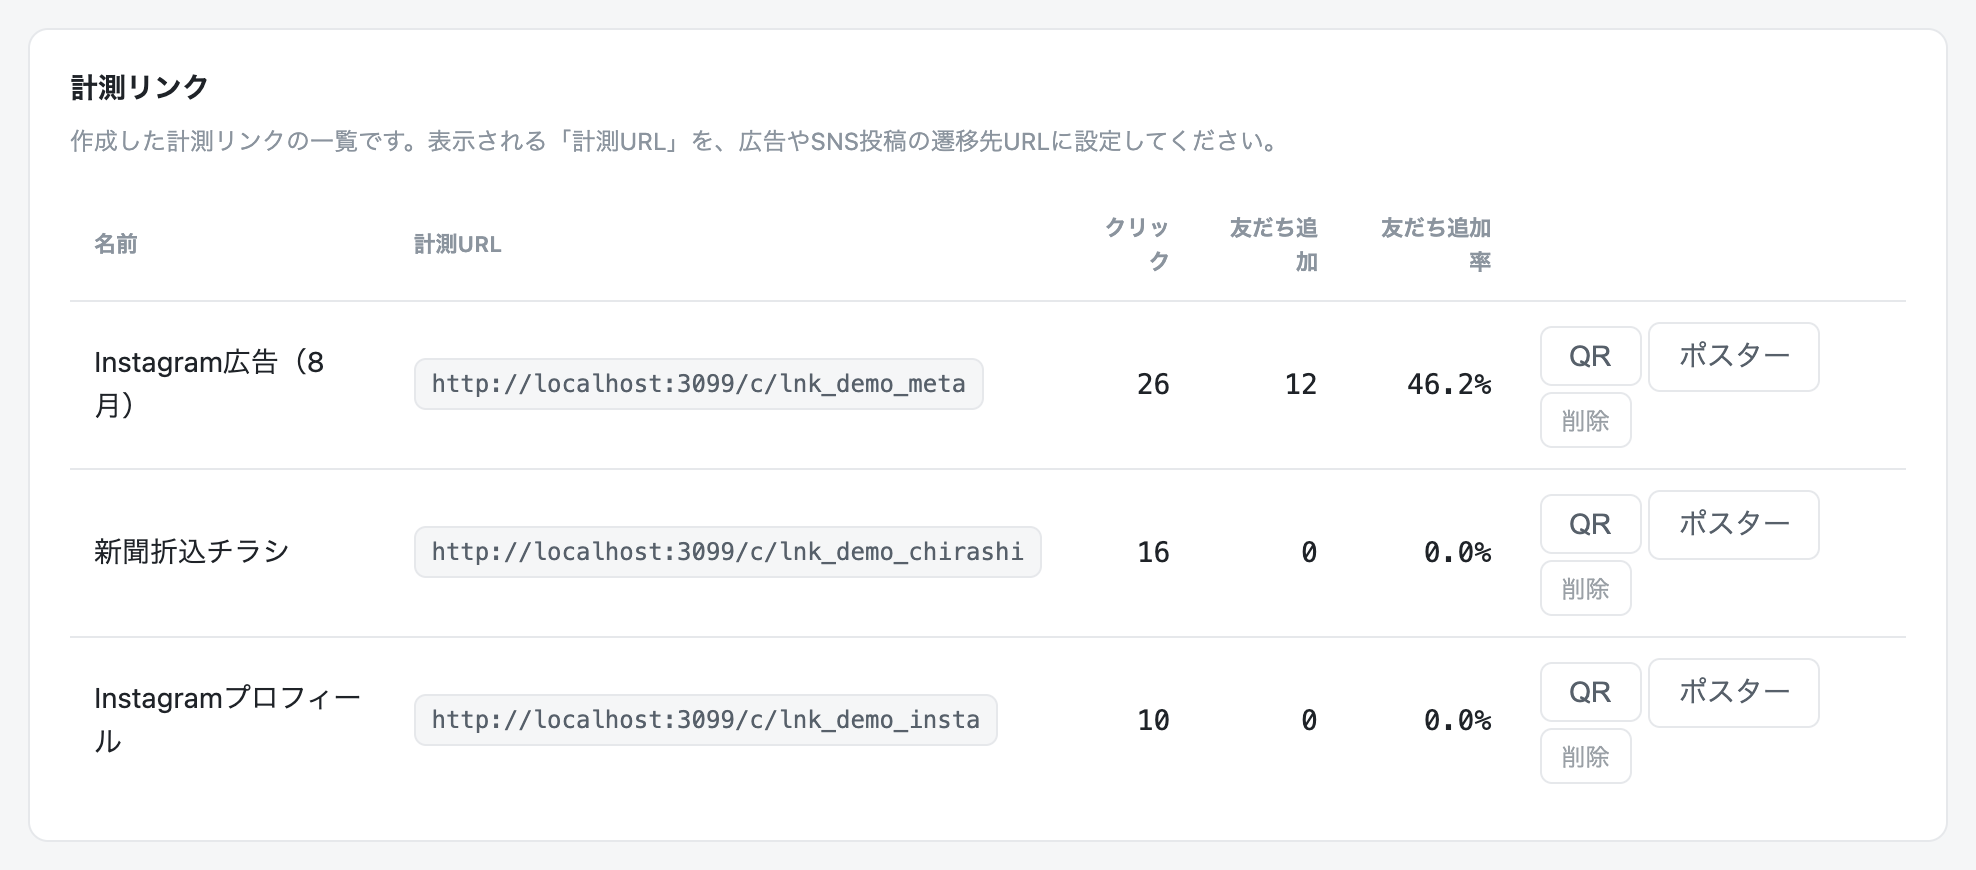
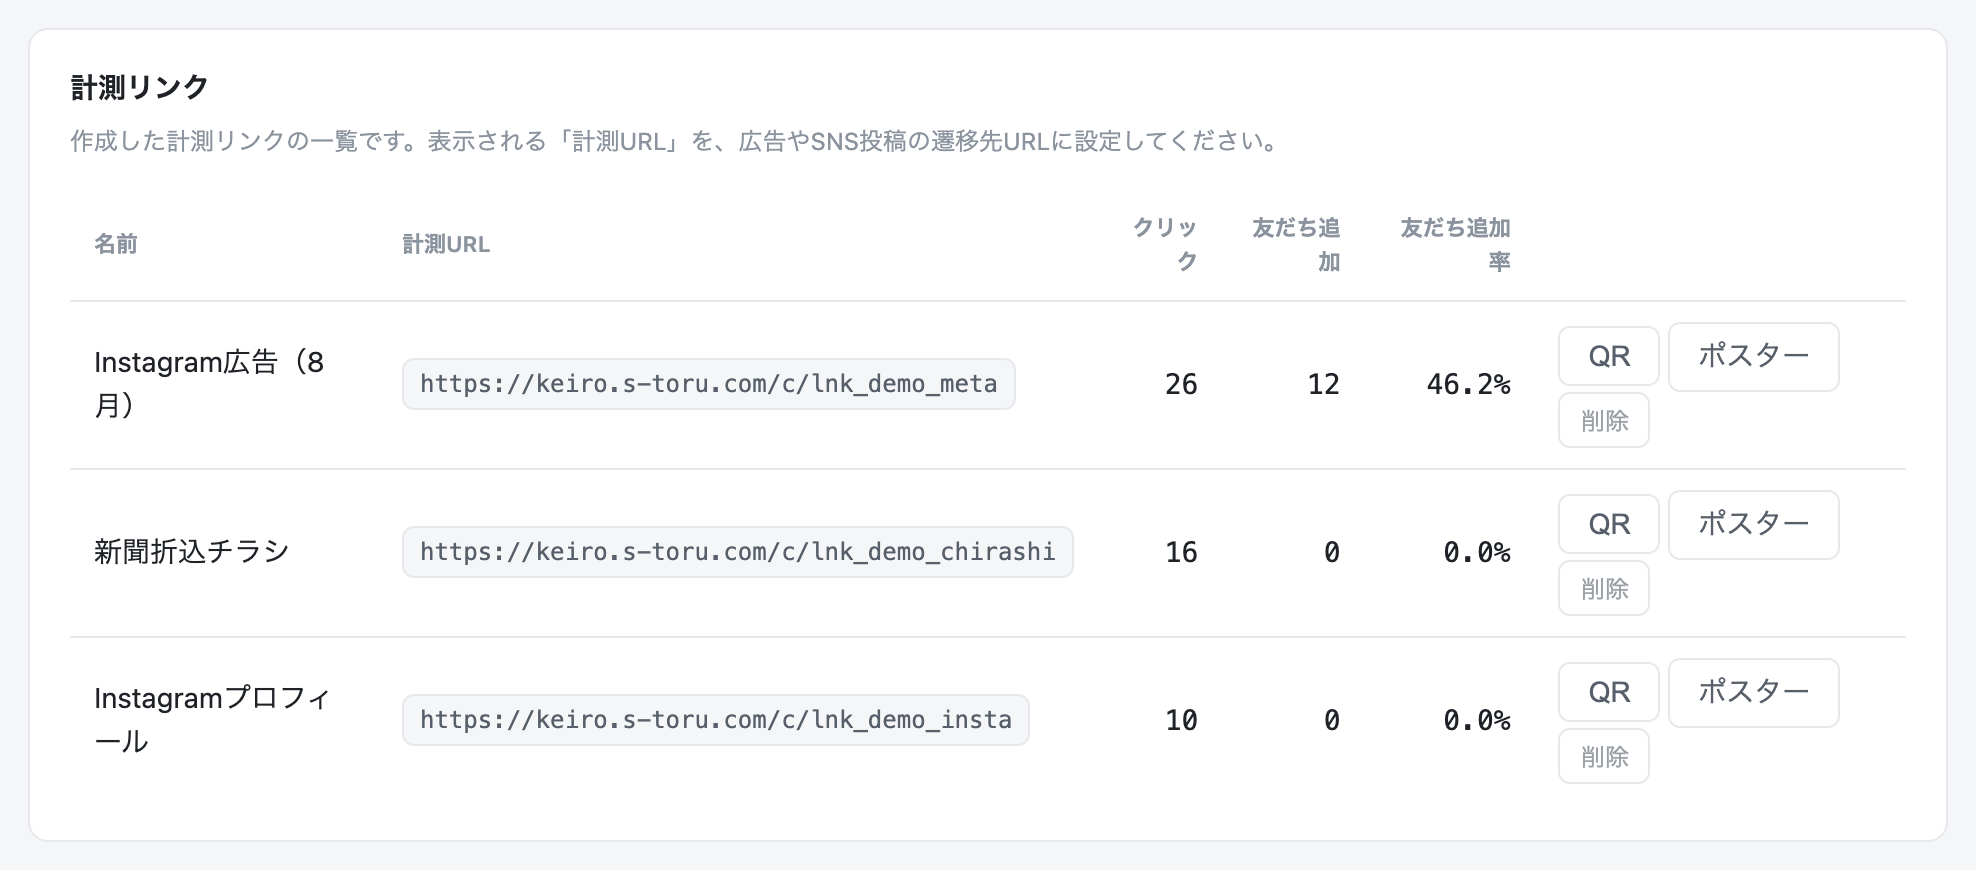
fix: LPの絵文字アイコンをSVGに置換・計測リンク画面のURL表記を本番ドメインに修正

diff --git a/public/index.html b/public/index.html
@@ -421,17 +421,17 @@ footer{background:var(--ink-950);color:rgba(255,255,255,.65);padding:44px 0;font
     </div>
     <div class="cards3">
       <div class="risk-card reveal">
-        <div class="icon">💸</div>
+        <div class="icon-c" style="width:48px;height:48px;border-radius:50%;background:var(--orange);display:grid;place-items:center;margin-bottom:16px"><svg width="22" height="22" viewBox="0 0 24 24" fill="none" stroke="#fff" stroke-width="2" stroke-linecap="round" stroke-linejoin="round"><polyline points="23 18 13.5 8.5 8.5 13.5 1 6"/><polyline points="17 18 23 18 23 12"/></svg></div>
         <h3>広告費のムダ打ちが続く</h3>
         <p>効いていない宣伝を「なんとなく」続けてしまう。どこを止めてどこに集中すべきか、判断材料がないままお金だけが出ていきます。</p>
       </div>
       <div class="risk-card reveal">
-        <div class="icon">📵</div>
+        <div class="icon-c" style="width:48px;height:48px;border-radius:50%;background:var(--orange);display:grid;place-items:center;margin-bottom:16px"><svg width="22" height="22" viewBox="0 0 24 24" fill="none" stroke="#fff" stroke-width="2" stroke-linecap="round" stroke-linejoin="round"><path d="M16 21v-2a4 4 0 0 0-4-4H5a4 4 0 0 0-4 4v2"/><circle cx="8.5" cy="7" r="4"/><line x1="18" y1="8" x2="23" y2="13"/><line x1="23" y1="8" x2="18" y2="13"/></svg></div>
         <h3>ブロックが増え続ける</h3>
         <p>全員に同じ配信を続けるほど「自分に関係ない」と思われ、静かにブロックされていきます。せっかく集めた友だちリストが痩せていきます。</p>
       </div>
       <div class="risk-card reveal">
-        <div class="icon">🏃</div>
+        <div class="icon-c" style="width:48px;height:48px;border-radius:50%;background:var(--orange);display:grid;place-items:center;margin-bottom:16px"><svg width="22" height="22" viewBox="0 0 24 24" fill="none" stroke="#fff" stroke-width="2" stroke-linecap="round" stroke-linejoin="round"><circle cx="12" cy="12" r="10"/><polyline points="12 6 12 12 16 14"/></svg></div>
         <h3>フォローの差が、来店の差に</h3>
         <p>追加直後の“熱いうち”にフォローできるかどうかで、その後の来店は変わります。手作業では、忙しい日ほど抜け落ちます。</p>
       </div>
@@ -507,12 +507,12 @@ footer{background:var(--ink-950);color:rgba(255,255,255,.65);padding:44px 0;font
       </div>
     </div>
     <div class="feat-grid">
-      <div class="feat reveal"><div class="fi">🔗</div><h4>計測リンク・QR・ポスター</h4><p>宣伝ごとに発行。店頭用のA4ポスターも1クリックで作成。</p></div>
-      <div class="feat reveal"><div class="fi">🏷</div><h4>タグ・セグメント配信</h4><p>「来店済み×女性」のような組合せを保存して絞り込み配信。</p></div>
-      <div class="feat reveal"><div class="fi">⚡</div><h4>自動ステップ配信</h4><p>追加後に1通目→3日後→7日後と自動フォロー。経路別に出し分け。</p></div>
-      <div class="feat reveal"><div class="fi">🪄</div><h4>AIおまかせ＆下書き</h4><p>初期設定はHPを読んでAIが一括構築。配信文もAIが下書き。</p></div>
-      <div class="feat reveal"><div class="fi">📊</div><h4>ファネル分析・成績表</h4><p>クリック→追加→成果のどこで減ったかをバーで表示。</p></div>
-      <div class="feat reveal"><div class="fi">🛡</div><h4>安心設計</h4><p>AIは下書きまで。送信は必ず人の操作。試し送りと体験プレビュー付き。</p></div>
+      <div class="feat reveal"><div class="fi" style="width:40px;height:40px;border-radius:10px;background:rgba(127,212,207,.15);display:grid;place-items:center;margin-bottom:10px"><svg width="20" height="20" viewBox="0 0 24 24" fill="none" stroke="#7FD4CF" stroke-width="2" stroke-linecap="round" stroke-linejoin="round"><path d="M10 13a5 5 0 0 0 7.54.54l3-3a5 5 0 0 0-7.07-7.07l-1.72 1.71"/><path d="M14 11a5 5 0 0 0-7.54-.54l-3 3a5 5 0 0 0 7.07 7.07l1.71-1.71"/></svg></div><h4>計測リンク・QR・ポスター</h4><p>宣伝ごとに発行。店頭用のA4ポスターも1クリックで作成。</p></div>
+      <div class="feat reveal"><div class="fi" style="width:40px;height:40px;border-radius:10px;background:rgba(127,212,207,.15);display:grid;place-items:center;margin-bottom:10px"><svg width="20" height="20" viewBox="0 0 24 24" fill="none" stroke="#7FD4CF" stroke-width="2" stroke-linecap="round" stroke-linejoin="round"><path d="M20.59 13.41l-7.17 7.17a2 2 0 0 1-2.83 0L2 12V2h10l8.59 8.59a2 2 0 0 1 0 2.82z"/><line x1="7" y1="7" x2="7.01" y2="7"/></svg></div><h4>タグ・セグメント配信</h4><p>「来店済み×女性」のような組合せを保存して絞り込み配信。</p></div>
+      <div class="feat reveal"><div class="fi" style="width:40px;height:40px;border-radius:10px;background:rgba(127,212,207,.15);display:grid;place-items:center;margin-bottom:10px"><svg width="20" height="20" viewBox="0 0 24 24" fill="none" stroke="#7FD4CF" stroke-width="2" stroke-linecap="round" stroke-linejoin="round"><polygon points="13 2 3 14 12 14 11 22 21 10 12 10 13 2"/></svg></div><h4>自動ステップ配信</h4><p>追加後に1通目→3日後→7日後と自動フォロー。経路別に出し分け。</p></div>
+      <div class="feat reveal"><div class="fi" style="width:40px;height:40px;border-radius:10px;background:rgba(127,212,207,.15);display:grid;place-items:center;margin-bottom:10px"><svg width="20" height="20" viewBox="0 0 24 24" fill="none" stroke="#7FD4CF" stroke-width="2" stroke-linecap="round" stroke-linejoin="round"><rect x="4" y="4" width="16" height="16" rx="2" ry="2"/><rect x="9" y="9" width="6" height="6"/><line x1="9" y1="1" x2="9" y2="4"/><line x1="15" y1="1" x2="15" y2="4"/><line x1="9" y1="20" x2="9" y2="23"/><line x1="15" y1="20" x2="15" y2="23"/><line x1="20" y1="9" x2="23" y2="9"/><line x1="20" y1="14" x2="23" y2="14"/><line x1="1" y1="9" x2="4" y2="9"/><line x1="1" y1="14" x2="4" y2="14"/></svg></div><h4>AIおまかせ＆下書き</h4><p>初期設定はHPを読んでAIが一括構築。配信文もAIが下書き。</p></div>
+      <div class="feat reveal"><div class="fi" style="width:40px;height:40px;border-radius:10px;background:rgba(127,212,207,.15);display:grid;place-items:center;margin-bottom:10px"><svg width="20" height="20" viewBox="0 0 24 24" fill="none" stroke="#7FD4CF" stroke-width="2" stroke-linecap="round" stroke-linejoin="round"><line x1="18" y1="20" x2="18" y2="10"/><line x1="12" y1="20" x2="12" y2="4"/><line x1="6" y1="20" x2="6" y2="14"/></svg></div><h4>ファネル分析・成績表</h4><p>クリック→追加→成果のどこで減ったかをバーで表示。</p></div>
+      <div class="feat reveal"><div class="fi" style="width:40px;height:40px;border-radius:10px;background:rgba(127,212,207,.15);display:grid;place-items:center;margin-bottom:10px"><svg width="20" height="20" viewBox="0 0 24 24" fill="none" stroke="#7FD4CF" stroke-width="2" stroke-linecap="round" stroke-linejoin="round"><path d="M12 22s8-4 8-10V5l-8-3-8 3v7c0 6 8 10 8 10z"/></svg></div><h4>安心設計</h4><p>AIは下書きまで。送信は必ず人の操作。試し送りと体験プレビュー付き。</p></div>
     </div>
     <div class="shots-grid">
       <figure class="shot-card reveal">
@@ -630,9 +630,9 @@ footer{background:var(--ink-950);color:rgba(255,255,255,.65);padding:44px 0;font
       </div>
     </div>
     <div class="price-notes">
-      <div class="pnote reveal"><b>🎁 無料期間つき</b>制作パックは30日・アプリのみは14日。期間中の解約は費用0円です。</div>
-      <div class="pnote reveal"><b>🔓 契約期間の縛りなし</b>解約はLINEのご連絡かアプリ内から。翌月から料金はかかりません（日割精算なし）。</div>
-      <div class="pnote reveal"><b>ℹ LINE公式の料金は別途</b>公式LINE自体の料金（月200通まで無料〜）はLINEヤフー社へのお支払いです。</div>
+      <div class="pnote reveal"><b>無料期間つき</b>制作パックは30日・アプリのみは14日。期間中の解約は費用0円です。</div>
+      <div class="pnote reveal"><b>契約期間の縛りなし</b>解約はLINEのご連絡かアプリ内から。翌月から料金はかかりません（日割精算なし）。</div>
+      <div class="pnote reveal"><b>LINE公式の料金は別途</b>公式LINE自体の料金（月200通まで無料〜）はLINEヤフー社へのお支払いです。</div>
     </div>
   </div>
 </section>
